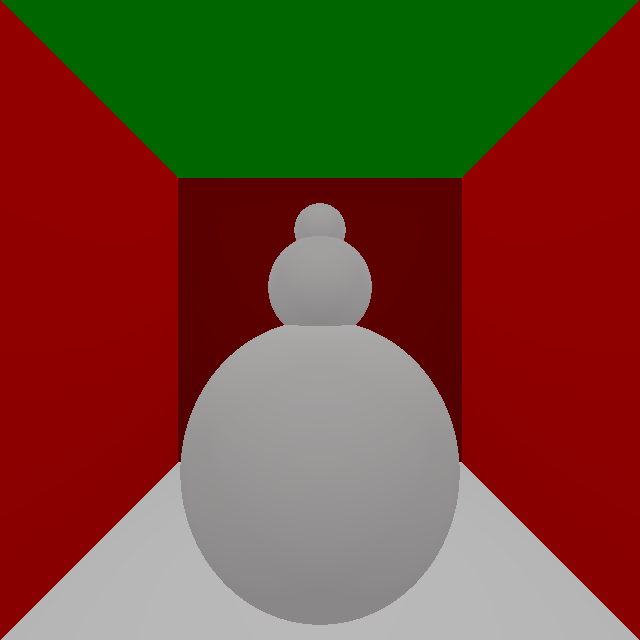
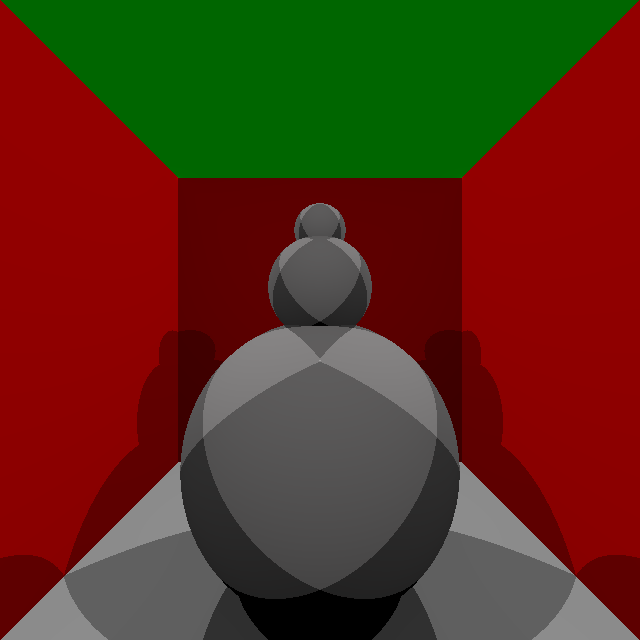
included the effect of shadows

diff --git a/helper.cpp b/helper.cpp
@@ -64,6 +64,28 @@ glm::dvec3 rotateVector(glm::dvec3 input,double angle, int axisID){
     return rotation * input;
 
 }
+std::vector<bool> isShadow(glm::dvec3 point, std::vector<PointSource> sources,std::vector<Object*>objects){
+
+    std::vector<bool> shadowVec;
+
+    for(int i =0;i<(int)sources.size();i++){
+
+        double tSource = glm::length(point - sources[i].position);
+        Ray shadowRay = Ray(point, glm::normalize(sources[i].position-point),1);
+
+        double tMIN = INF;
+        for(int i = 0;i<(int)(objects.size());i++){
+                std::tuple <double,glm::dvec3,glm::dvec3> intersection = objects[i]->getClosestIntersection(shadowRay);
+                if(std::get<0>(intersection) >= 0 && std::get<0>(intersection) < tMIN){
+                tMIN = std::get<0>(intersection);            
+           }
+        }
+
+        if(tMIN >= 0 && tMIN < tSource)shadowVec.push_back(true);
+        else shadowVec.push_back(false);
+    }
+    return shadowVec;
+}
 
 glm::dvec3 rayTrace(Ray ray, std::vector<Object*> objects, std::vector<PointSource>lightSources,int depth, int maxDepth,glm::dvec3 backgroundColor){
     if(depth > maxDepth)return glm::dvec3(0,0,0);
@@ -90,10 +112,18 @@ glm::dvec3 rayTrace(Ray ray, std::vector<Object*> objects, std::vector<PointSour
     if(closestIntersectionIndex==-1){
         return backgroundColor;
     }
+
+    std::vector<bool> shadowVec = isShadow(closestIntersectionPoint,lightSources,objects);
+
+
+    std::vector<PointSource> accessibleSources;
+    for(int i =0;i<(int)lightSources.size();i++){
+        if( !shadowVec[i])accessibleSources.push_back(lightSources[i]);
+    }
     
     glm::dvec3 localIllumination = glm::dvec3(0,0,0);
     // for(int i =0;i<(int)(objects.size());i++){
-    localIllumination = localIllumination + objects[closestIntersectionIndex]->getLocalIllumination(lightSources,normal,ray.getOrigin(),closestIntersectionPoint);
+    localIllumination = localIllumination + objects[closestIntersectionIndex]->getLocalIllumination(accessibleSources,normal,ray.getOrigin(),closestIntersectionPoint);
     
 
     double Kr = objects[closestIntersectionIndex]->getK_Reflection();

diff --git a/helper.h b/helper.h
@@ -29,3 +29,5 @@ Ray getReflectedRay(glm::dvec3 normal,Ray incident,glm::dvec3 point);
 glm::dvec3 getRefractionDirection(glm::dvec3 normal,glm::dvec3 incident, double incomingRefractiveIndex,double outgoingRefractiveIndex);
 Ray getRefractedRaySubRoutine(glm::dvec3 normal,glm::dvec3 incident,glm::dvec3 point, double incomingRefractiveIndex,double outgoingRefractiveIndex);
 Ray getRefractedRay(glm::dvec3 normal,Ray incident,glm::dvec3 point, double incomingRefractiveIndex,double outgoingRefractiveIndex);
+
+std::vector<bool> isShadow(glm::dvec3 point, std::vector<PointSource> sources,std::vector<Object*>objects);

diff --git a/Object.cpp b/Object.cpp
@@ -53,8 +53,8 @@ glm::dvec3 Object::getLocalIllumination(std::vector<PointSource> sources,glm::dv
 
         cSpecEfffective = cSpecEfffective + ndoth_exp * specularColor * sources[i].color;
     }
-    if(id==1)
-         std::cout<<specularCoefficient<<" "<<cSpecEfffective[0]<<" "<<cSpecEfffective[0]*specularCoefficient<<"\n";
+    // if(id==1)
+    //      std::cout<<specularCoefficient<<" "<<cSpecEfffective[0]<<" "<<cSpecEfffective[0]*specularCoefficient<<"\n";
 
     cLocal = specularCoefficient* cSpecEfffective + diffusionCoefficient* cDifEffective + cAmbient;
     
